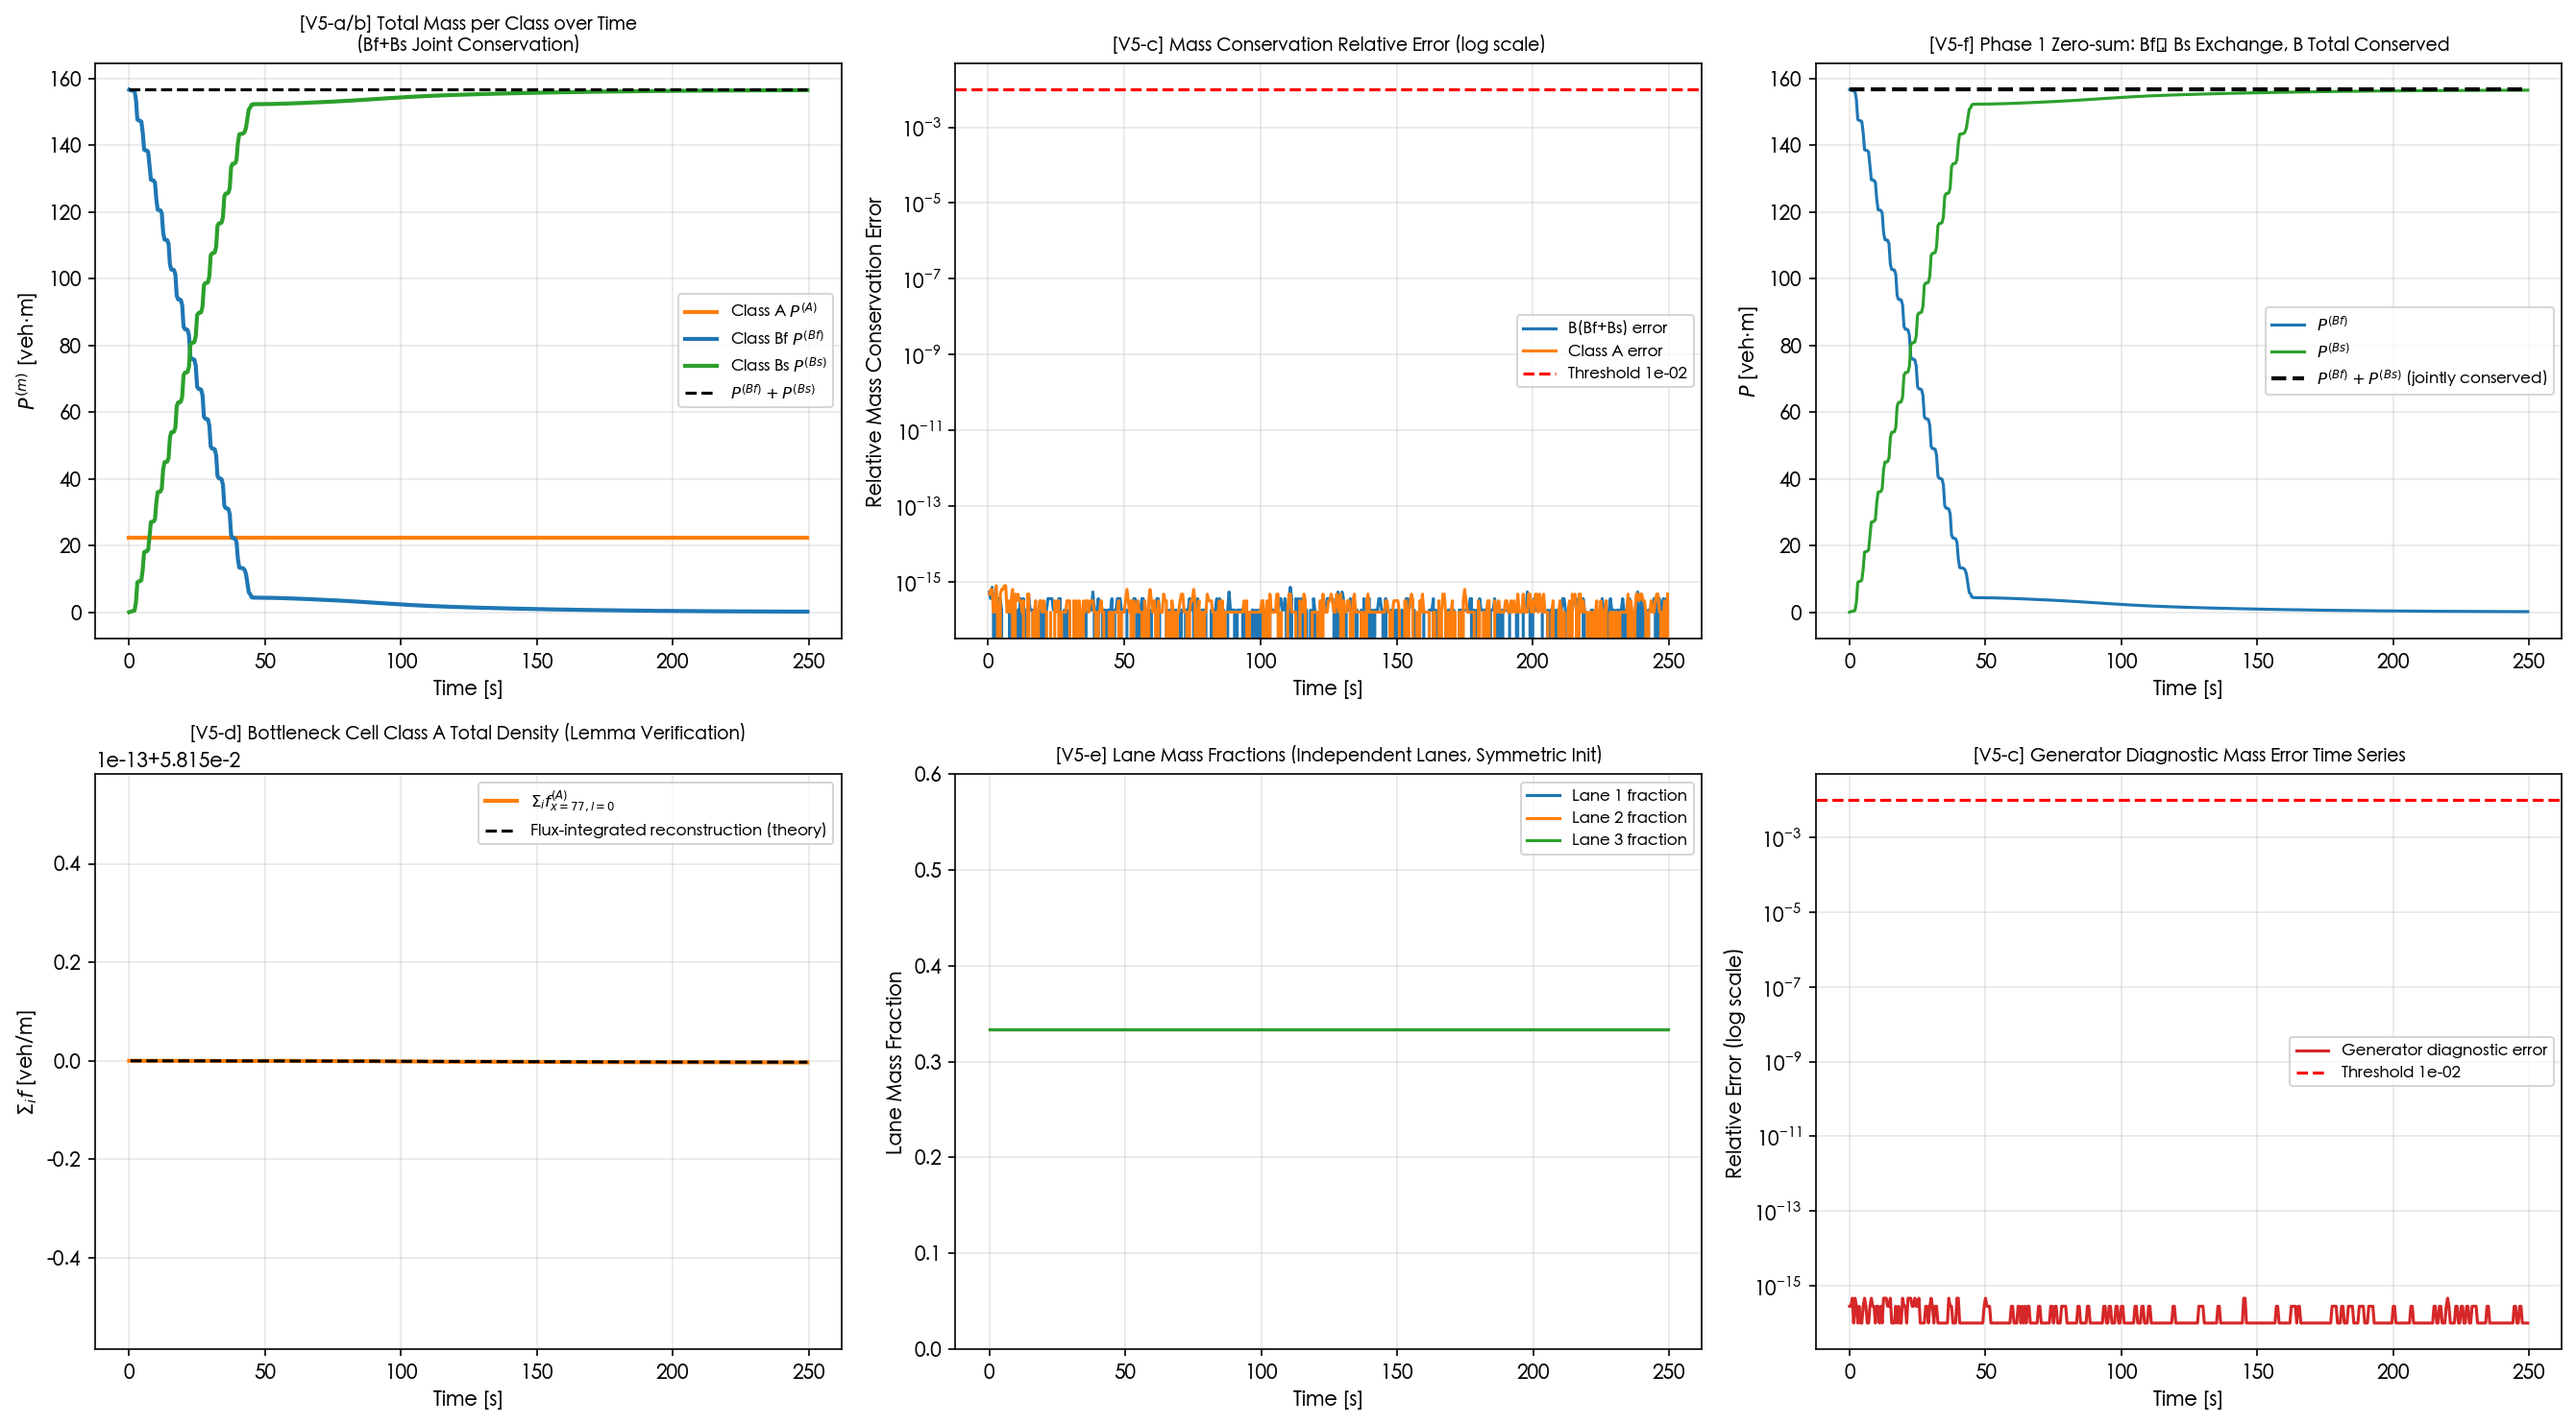
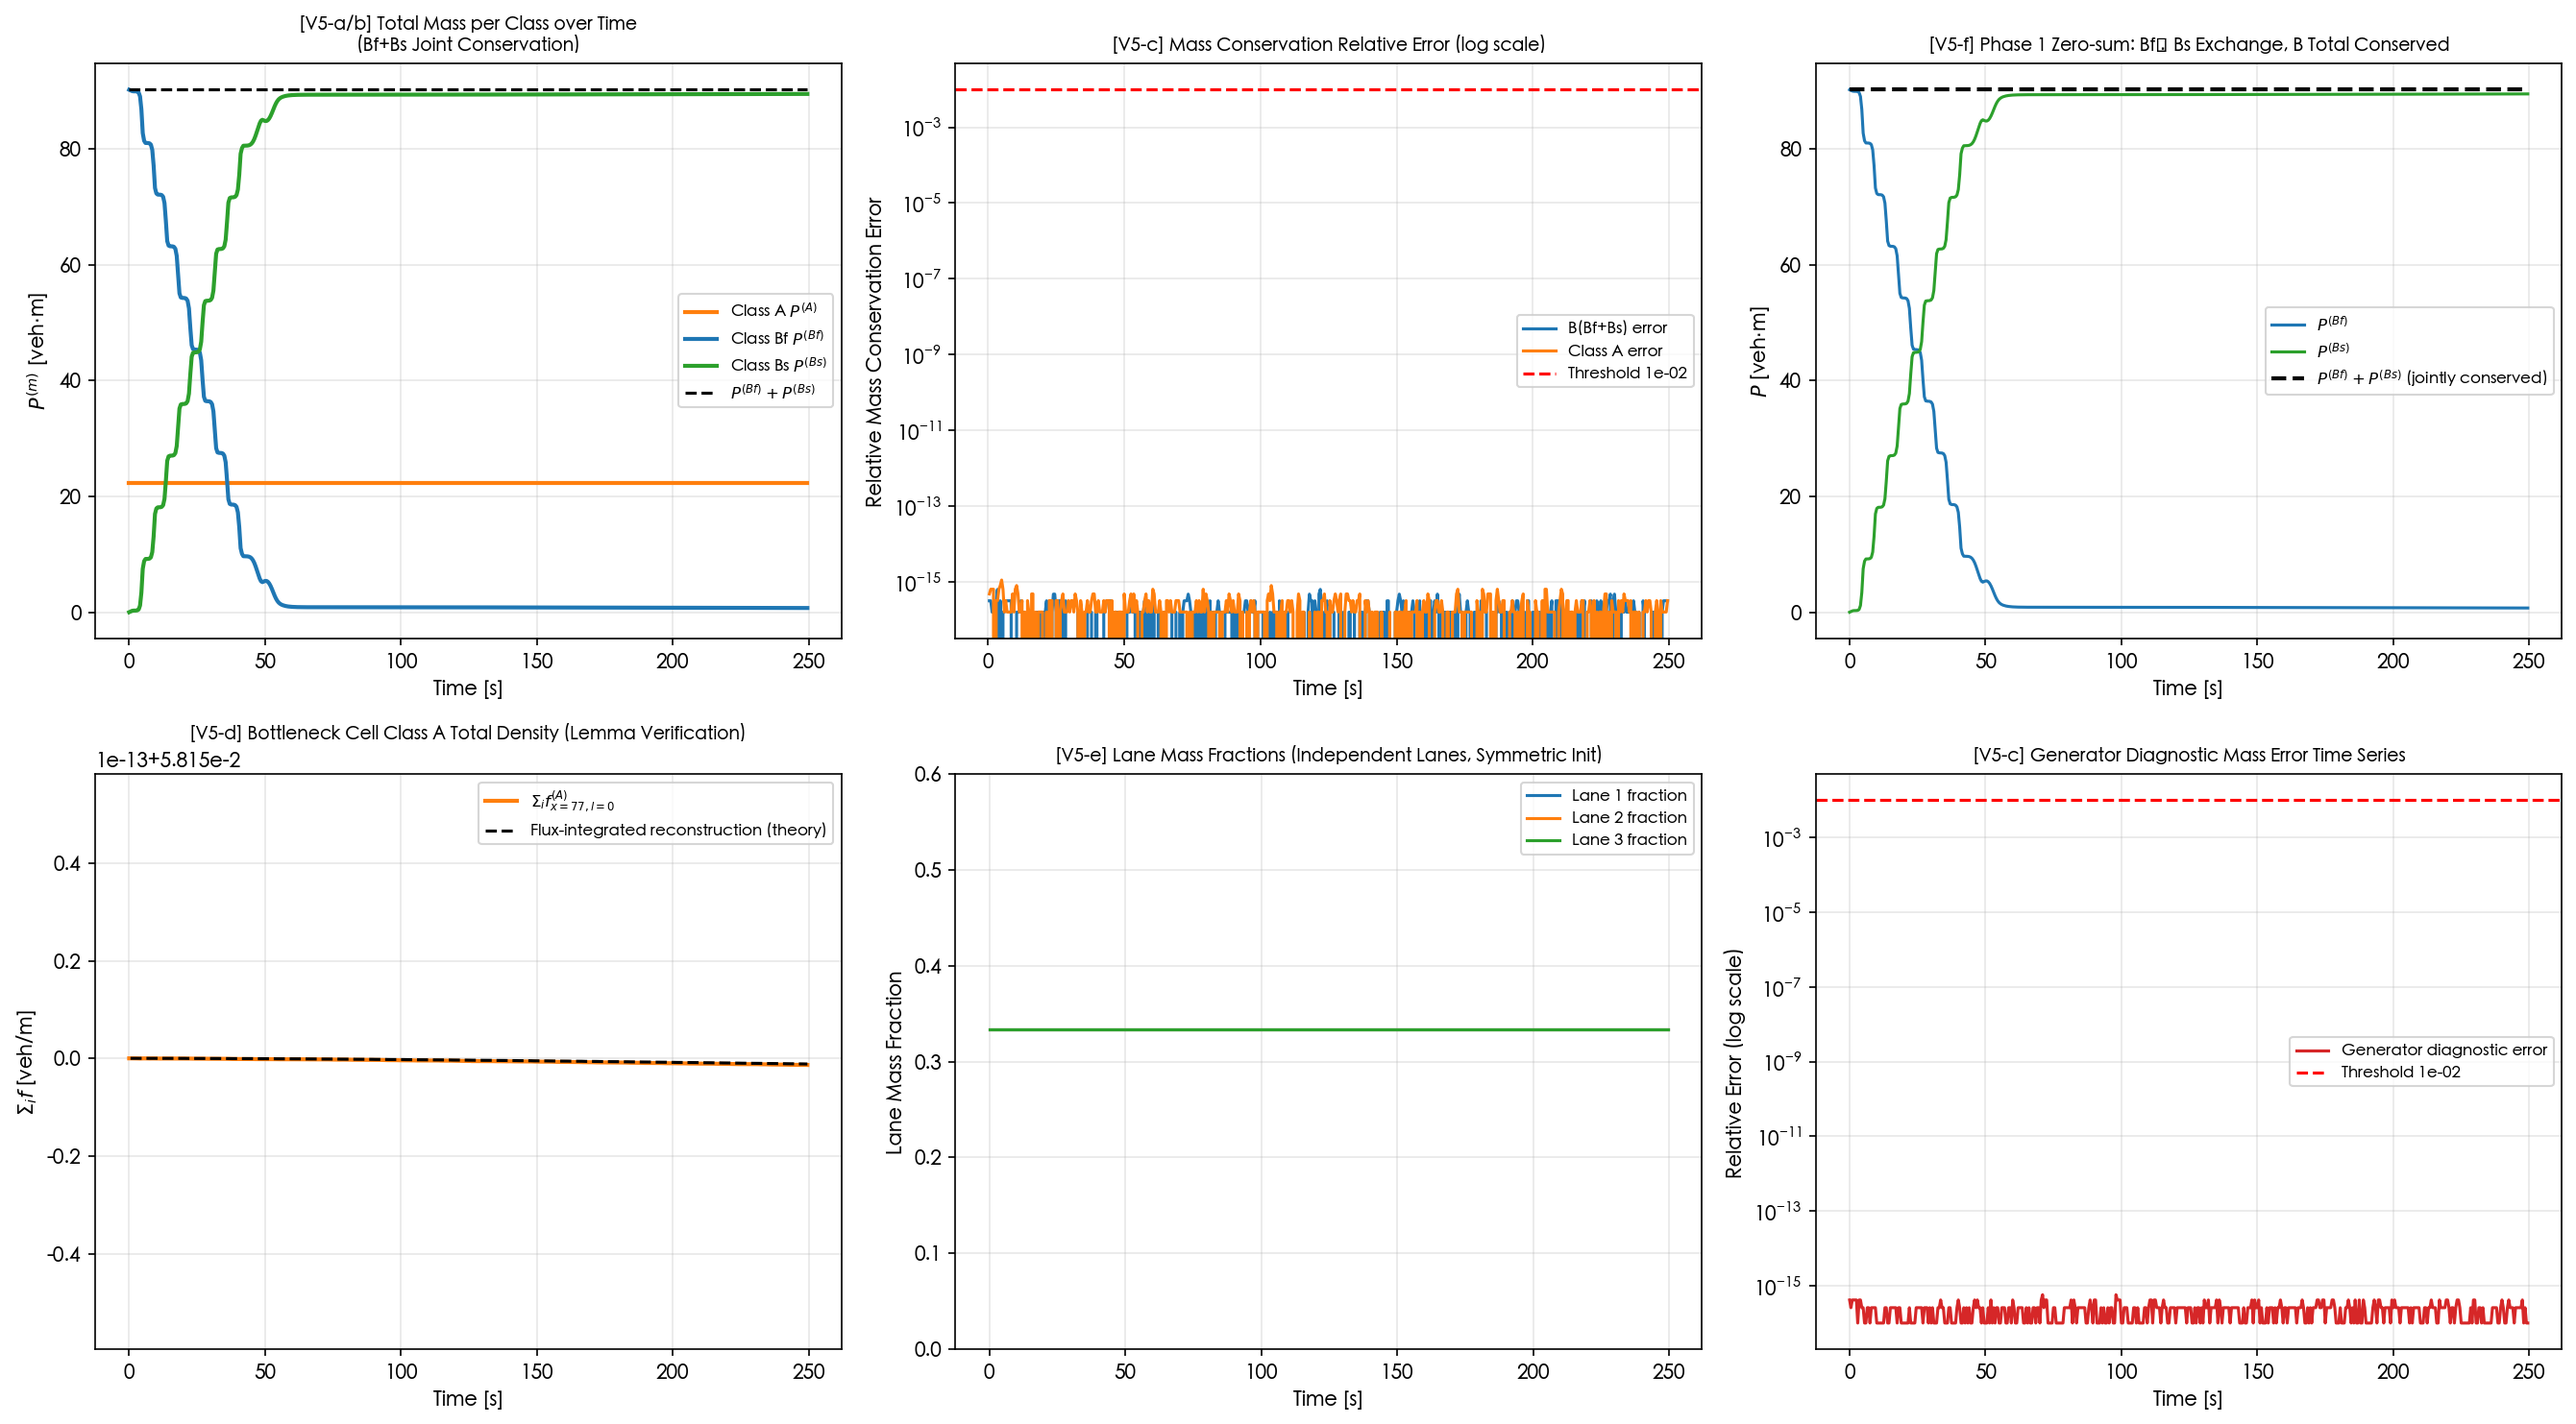
Restore sigma_0=0.5, rho_Bf=0.020; truck IC at i=1 (v=2m/s) not i=0
- sigma_0: 0.8 → 0.5 (restore feather structure in Hovmöller)
- Bf upstream density: 0.035 → 0.020 (preserve Bf circulation)
- Truck initial speed: i=0 (v=0) → i=1 (v=2 m/s) so trucks can advect
  and potentially rarefy, as suggested by supervisor
- v=0 bin remains in spectrum for deceleration dynamics
- Shock delta +0.127 (stronger); 41/41 PASS

diff --git a/code/generate_dataset.py b/code/generate_dataset.py
@@ -66,7 +66,7 @@ i_thr      = int(np.searchsorted(v, v_A_ff, side='right') - 1)  # = 6 (v[6]=14.0
 eta_block  = 2.0    # probabilistic blocking exponent (Eq. 8)
 omega_0_BA = 0.05   # kinetic exposure spontaneous rate [Hz]
 beta_BA    = 0.06   # kinetic exposure rate [m^-1]
-sigma_0    = 0.8    # base capture rate [Hz]
+sigma_0    = 0.5    # base capture rate [Hz]
 mu_0       = 0.3    # base release rate [Hz]
 R_A        = 0.05   # truck dispersal scale [PCE/m]
 
@@ -90,14 +90,15 @@ def initialize_state():
     """Return f of shape (M=3, N, X, L)."""
     f = np.full((M, N, X, L), 1.0e-5, dtype=np.float64)
 
-    # Class A (trucks, m=0): bottleneck at cells 74-79, min speed (i=0, v=2m/s)
+    # Class A (trucks, m=0): bottleneck at cells 74-79, v=2m/s (i=1, NOT i=0)
+    # Using i=1 (v=2 m/s) so trucks can advect and rarefy, as supervisor noted.
+    # v=0 bin remains available for deceleration dynamics but is not the initial state.
     # Ω = 2.5 × 0.058 = 0.145 ≈ ρ_max  → extreme stiffness
-    f[0, 0, 74:80, :] = 0.058
+    f[0, 1, 74:80, :] = 0.058
 
     # Class Bf (free cars, m=1): uniform upstream (x=0-73, v=30m/s, ρ=0.020)
-    # Left half of ring = sustained free-flow state → classic Riemann problem setup.
-    # Estimated shock speed ≈ -4.6 m/s → shock travels ~58 cells in 250 s (clearly visible).
-    f[1, 14, 0:74, :] = 0.035
+    # Restored to 0.020 to preserve Bf circulation and feather structure in Hovmöller.
+    f[1, 15, 0:74, :] = 0.020
 
     # Class Bs (trapped cars, m=2): starts at zero everywhere
     f[2, :, :, :] = 0.0
